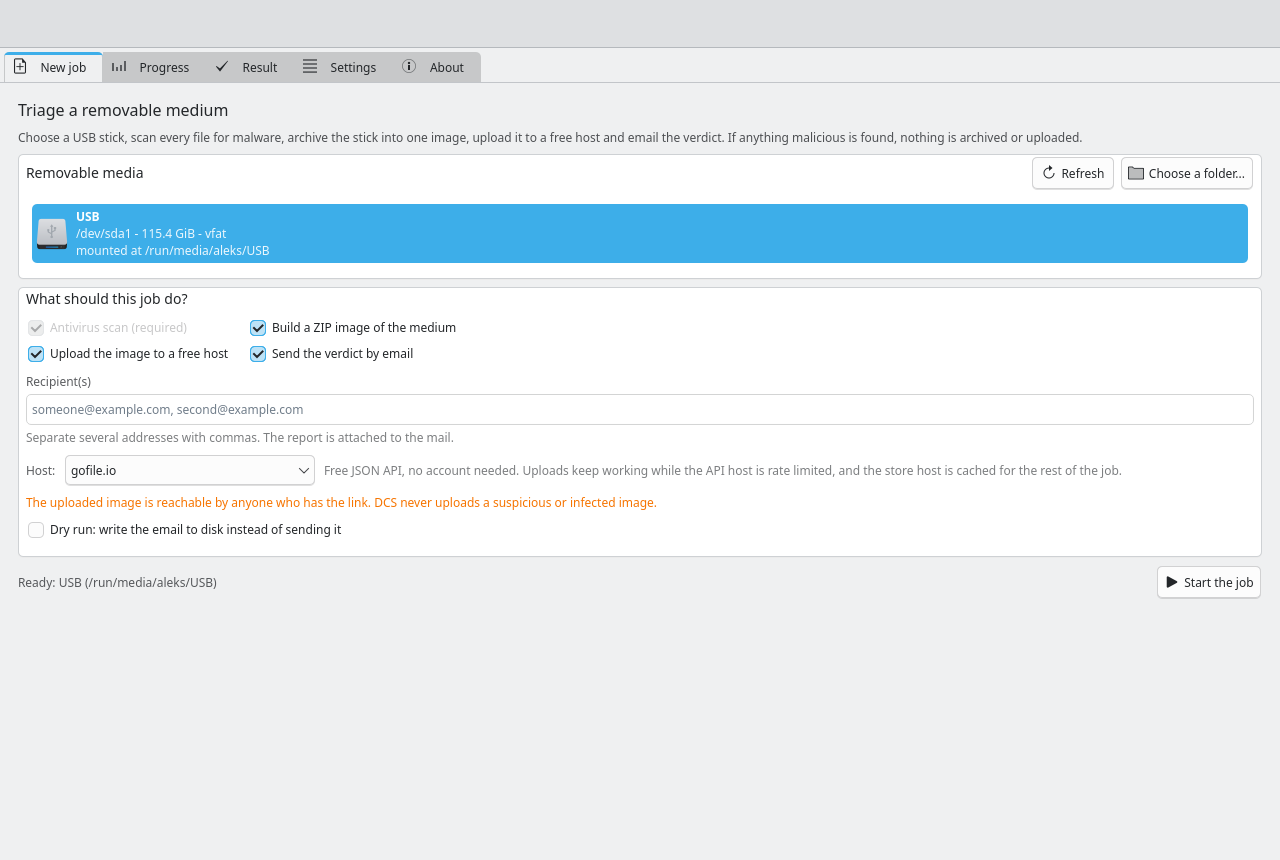
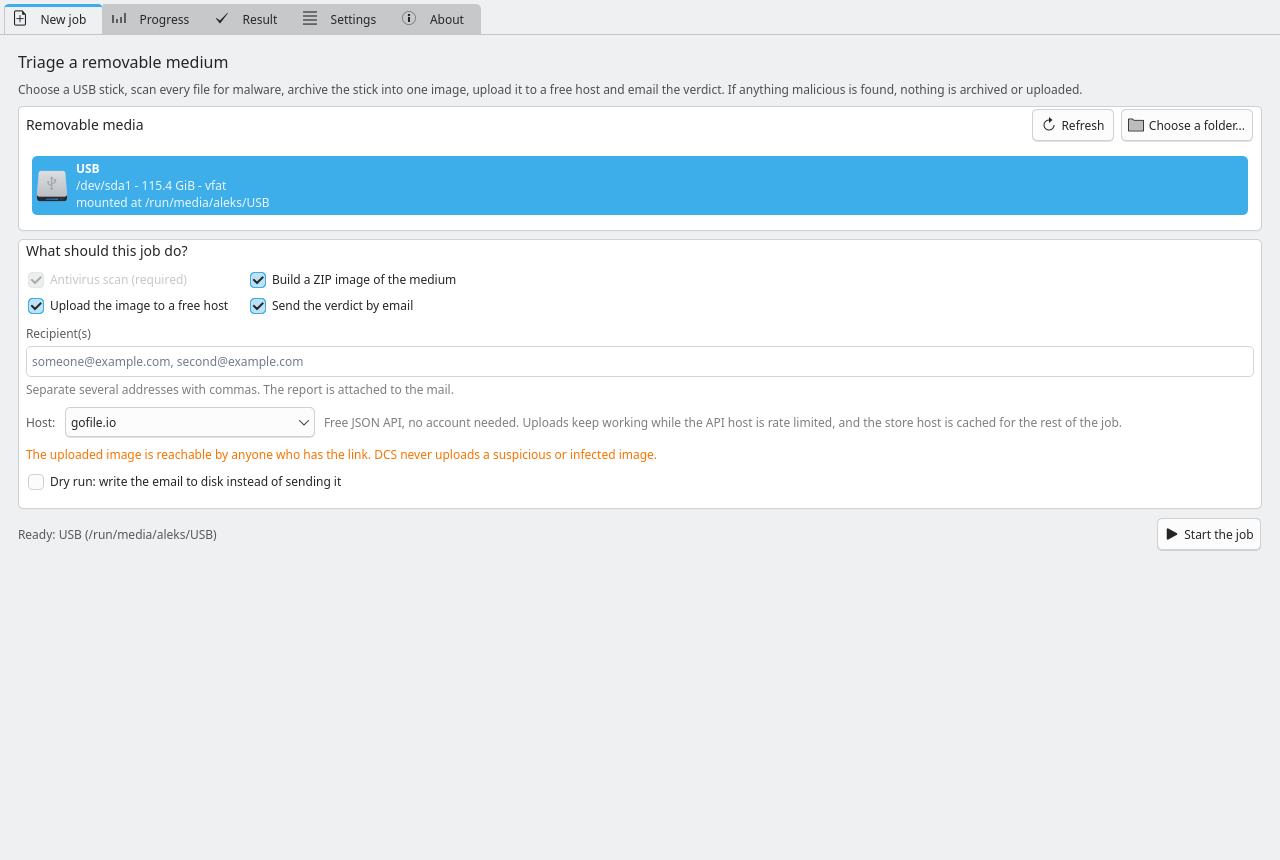
Remove the empty toolbar band above the navigation
Kirigami builds a toolbar row for the current page and reserves its height -
48 px with the Breeze style - even when the page has no title, no actions and no
drawer. After the global drawer was removed that row was an empty strip where
the hamburger had been, which is what the interface showed on Kubuntu.

The dashboard page now sets Kirigami.ApplicationHeaderStyle.None. Measured in a
real Plasma session: the tab bar started at y=52 before and starts at y=4 now,
with the page content filling the window from the top.

The new test asserts the geometry (tab bar at the top of the window) and that no
ToolBarPageHeader item is visible, because Kirigami keeps the item in the object
tree regardless.

Changed region(s): [[0.0, 0.0, 1.0, 0.6349], [0.9062, 0.6047, 1.0, 0.6953], [0.0312, 0.6651, 0.1562, 0.6953]]

diff --git a/src/dcs/gui/qml/Main.qml b/src/dcs/gui/qml/Main.qml
@@ -49,6 +49,12 @@ Kirigami.ApplicationWindow {
         padding: 0
         title: ""
 
+        // Kirigami builds a toolbar row for the current page and reserves its
+        // height (48 px with Breeze) even when it has nothing to show: no title,
+        // no actions, no drawer.  This interface brings its own tab bar, so that
+        // row would only be an empty band above it.
+        globalToolBarStyle: Kirigami.ApplicationHeaderStyle.None
+
         ColumnLayout {
             anchors.fill: parent
             spacing: 0

diff --git a/tests/test_gui.py b/tests/test_gui.py
@@ -630,3 +630,51 @@ def test_stage_rows_are_laid_out_without_overlapping(
         assert y + height <= next_y + 1, f"rows overlap: {geometry}"
 
     gui_app.teardown_engine(engine)
+
+def test_no_empty_toolbar_band_above_the_navigation(
+    backend: Backend, qapp: Any, qt_messages: list[str]
+) -> None:
+    """The tab bar must sit at the top of the window.
+
+    Kirigami builds a page toolbar row and reserves its height (48 px with the
+    Breeze style) even when the page has no title, no actions and no drawer, so
+    the interface used to start with an empty band where the hamburger had been.
+    The page sets Kirigami.ApplicationHeaderStyle.None, and this asserts the
+    geometry rather than the property: the navigation starts at the top.
+    """
+    from PyQt6.QtCore import QPointF
+    from PyQt6.QtQuick import QQuickItem
+
+    engine, _ = gui_app.build_engine(backend.config, backend=backend)
+    window = engine.rootObjects()[0]
+    window.setProperty("width", 1280)
+    window.setProperty("height", 900)
+    window.show()
+    for _ in range(60):
+        qapp.processEvents()
+        time.sleep(0.01)
+
+    content = window.contentItem()
+    items: list[QQuickItem] = []
+
+    def walk(item: QQuickItem) -> None:
+        items.append(item)
+        for child in item.childItems():
+            walk(child)
+
+    walk(content)
+    tab_bars = [item for item in items if "TabBar" in item.metaObject().className()]
+    assert tab_bars, "the navigation tab bar was not found"
+    top = tab_bars[0].mapToItem(content, QPointF(0, 0)).y()
+    assert top < 12, f"an empty header band is reserved above the navigation (tab bar y={top})"
+
+    # and the toolbar row must not be shown either: Kirigami keeps the item in
+    # the tree, so what matters is that nothing above the navigation is visible
+    toolbar_rows = [
+        item
+        for item in items
+        if "ToolBarPageHeader" in item.metaObject().className() and item.isVisible()
+    ]
+    assert not toolbar_rows, "the page toolbar row is still being shown"
+
+    gui_app.teardown_engine(engine)

diff --git a/CHANGELOG.md b/CHANGELOG.md
@@ -37,6 +37,12 @@ change between minor releases; each such change is listed below.
   with the local file, so a truncated transfer fails and is retried instead of
   being published. A regression test uploads several megabytes to a local HTTP
   server and asserts every byte arrives.
+- **No empty band above the navigation.** Kirigami builds a toolbar row for the
+  current page and reserves its height (48 px with the Breeze style) even when
+  the page has no title, no actions and no drawer, so after removing the global
+  drawer an empty strip was left where the hamburger had been. The page now sets
+  Kirigami.ApplicationHeaderStyle.None, and a test asserts that the tab bar
+  starts at the top of the window.
 - **Readable text on a highlighted row.** The removable-media list drew its icon
   in the highlight colour and the mount status in green, both on top of the
   selection colour, which is unreadable with Kubuntu's light blue highlight.
